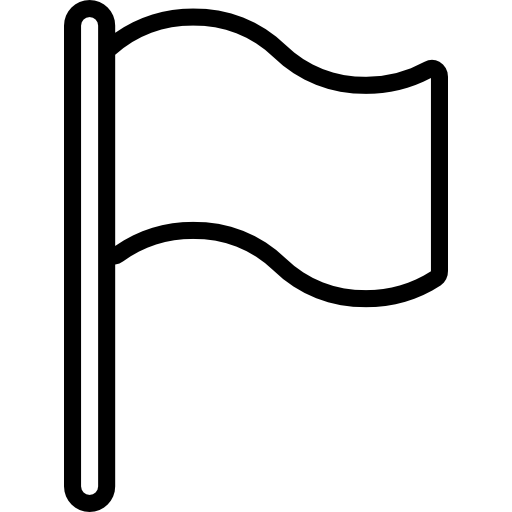
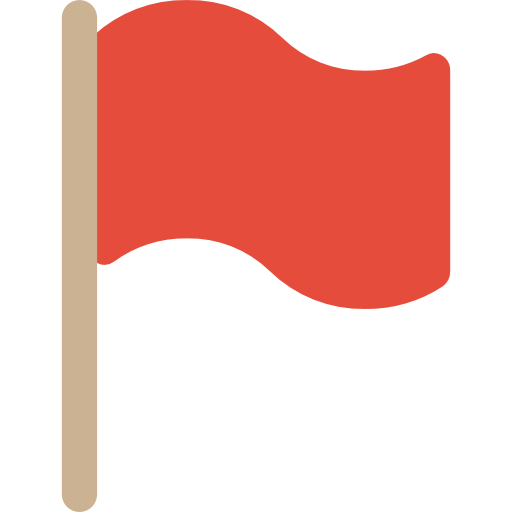
complete, delete, mark important functions added

diff --git a/src/app/main-view/main-view.component.ts b/src/app/main-view/main-view.component.ts
@@ -1,47 +1,20 @@
 import { Component, OnInit } from '@angular/core';
 import { Task, TaskList } from './taskList';
-import { TaskCompleteService } from '../../services/taskComplete.service';
 import { Subscription } from 'rxjs';
+import { TaskManagementService } from '../../services/TaskManagement.service';
 @Component({
   selector: 'app-main-view',
   templateUrl: './main-view.component.html',
   styleUrls: ['./main-view.component.scss'],
 })
 export class MainViewComponent implements OnInit {
-  subscription: Subscription;
-
-  constructor(private taskComplete: TaskCompleteService) {
-    this.subscription = this.taskComplete.clickEvent$.subscribe(
-      (taskItem: Task) => {
-        console.log(taskItem);
-        let taskId = taskItem.id;
-        let completeTask = () => {
-          for (const item of this.taskList) {
-            let foundTask = item.tasks.find((task) => task.id === taskId);
-            if (foundTask) {
-              let project = item
-              let taskIndex = 
-            }
-          }
-        };
-        completeTask();
-      }
-    );
-  }
-
-  ngOnInit() {}
-
-  ngOnDestroy() {
-    this.subscription.unsubscribe();
-  }
-
   taskList: TaskList[] = [
     {
       projectName: 'School',
       tasks: [
         { id: 1, taskName: 'Do homework', completed: false },
         { id: 2, taskName: 'Math exam', completed: false },
-        { id: 3, taskName: 'Return books', completed: false },
+        { id: 3, taskName: 'Return books', completed: false, important: true },
         { id: 4, taskName: 'Buy new notebook', completed: true },
         { id: 5, taskName: 'Help Susan with homework', completed: false },
         { id: 6, taskName: 'Talk to teacher', completed: false },
@@ -88,4 +61,84 @@ export class MainViewComponent implements OnInit {
       ],
     },
   ];
+
+  subscription: Subscription;
+
+  constructor(private taskManagementService: TaskManagementService) {
+    this.subscription =
+      this.taskManagementService.toggleTaskCompleted$.subscribe(
+        (taskItem: Task) => {
+          this.markTaskComplete(taskItem.id);
+        }
+      );
+    this.subscription =
+      this.taskManagementService.toggleTaskCompleted$.subscribe(
+        (taskItem: Task) => {
+          this.deleteTask(taskItem);
+        }
+      );
+    this.subscription =
+      this.taskManagementService.taskMarkedAsImportant$.subscribe(
+        (taskItem: Task) => {
+          this.toggleImportant(taskItem);
+        }
+      );
+  }
+
+  markTaskComplete(taskId: number) {
+    for (let i = 0; i < this.taskList.length; i++) {
+      const project = this.taskList[i];
+      const taskIndex = project.tasks.findIndex((item) => item.id === taskId);
+      if (taskIndex !== -1) {
+        let foundProjectIndex = i;
+        let foundTaskIndex = taskIndex;
+        this.taskList[foundProjectIndex].tasks[foundTaskIndex].completed =
+          !this.taskList[foundProjectIndex].tasks[foundTaskIndex].completed;
+      }
+    }
+  }
+
+  deleteTask(taskItem: Task) {
+    for (let i = 0; i < this.taskList.length; i++) {
+      const project = this.taskList[i];
+      const taskIndex = project.tasks.findIndex(
+        (item) => item.id === taskItem.id
+      );
+      if (taskIndex !== -1) {
+        let foundProjectIndex = i;
+        let foundTaskIndex = taskIndex;
+        this.taskList[foundProjectIndex].tasks.splice(foundTaskIndex, 1);
+      }
+    }
+  }
+
+  toggleImportant(taskItem: Task) {
+    for (let i = 0; i < this.taskList.length; i++) {
+      const project = this.taskList[i];
+      const taskIndex = project.tasks.findIndex(
+        (item) => item.id === taskItem.id
+      );
+      if (taskIndex !== -1) {
+        let foundProjectIndex = i;
+        let foundTaskIndex = taskIndex;
+        this.taskList[foundProjectIndex].tasks[foundTaskIndex].important =
+          !this.taskList[foundProjectIndex].tasks[foundTaskIndex].important;
+      }
+    }
+  }
+
+  projectToShow: TaskList = this.taskList[0];
+
+  showProject(projectName: string) {
+    let projectIndex = this.taskList.findIndex(
+      (item) => item.projectName === projectName
+    );
+    this.projectToShow = this.taskList[projectIndex];
+  }
+
+  ngOnInit() {}
+
+  ngOnDestroy() {
+    this.subscription.unsubscribe();
+  }
 }

diff --git a/src/app/main-task-view/main-task-view.component.ts b/src/app/main-task-view/main-task-view.component.ts
@@ -4,23 +4,30 @@ import { TaskList } from '../main-view/taskList';
 @Component({
   selector: 'app-main-task-view',
   templateUrl: './main-task-view.component.html',
-  styleUrls: ['./main-task-view.component.scss']
+  styleUrls: ['./main-task-view.component.scss'],
 })
 export class MainTaskViewComponent implements OnInit {
+  constructor() {}
 
-  constructor() { }
+  ngOnInit() {}
 
-  ngOnInit() {
-  }
-
-  @Input() project!: TaskList
+  @Input() project!: TaskList;
 
   activeTasks = () => {
-    return this.project.tasks.filter((item) => item.completed === false)
-  }
+    return this.project.tasks.filter((item) => item.completed === false);
+  };
 
   completedTasks = () => {
-    return this.project.tasks.filter((item) => item.completed === true)
-  }
+    return this.project.tasks.filter((item) => item.completed === true);
+  };
 
+  completedTasksVisible: Boolean = false;
+  showCompletedTasksBtn: string = 'Show completed tasks';
+
+  toggleCompletedTasksVisible() {
+    this.completedTasksVisible = !this.completedTasksVisible;
+    this.showCompletedTasksBtn = this.completedTasksVisible
+      ? 'Hide completed tasks'
+      : 'Show completed tasks';
+  }
 }

diff --git a/src/app/active-task-item/active-task-item.component.html b/src/app/active-task-item/active-task-item.component.html
@@ -1,9 +1,26 @@
-<div class="activeTaskItemWrapper">
-  <input type="checkbox" (click)="completeTask()"/>
-  <p>{{activeTaskItem.taskName}}</p>
+<div
+  class="activeTaskItemWrapper"
+  [ngClass]="{ importantTask: activeTaskItem.important }"
+>
+  <input
+    type="checkbox"
+    (click)="completeTask()"
+    [checked]="activeTaskItem.completed"
+  />
+  <p>{{ activeTaskItem.taskName }}</p>
   <div class="activeTaskItemButtonsWrapper">
-    <button type="button"><img src="../../assets/flag.png"></button>
-    <button type="button"><img src="../../assets/edit.png"></button>
-    <button type="button"><img src="../../assets/delete.png"></button>
+    <button type="button" (click)="markAsImportant()">
+      <img
+        [src]="
+          !activeTaskItem.important
+            ? '../../assets/flag.png'
+            : '../../assets/red-flag.png'
+        "
+      />
+    </button>
+    <button type="button"><img src="../../assets/edit.png" /></button>
+    <button type="button" (click)="deleteTask()">
+      <img src="../../assets/delete.png" />
+    </button>
   </div>
 </div>

diff --git a/src/app/active-task-item/active-task-item.component.ts b/src/app/active-task-item/active-task-item.component.ts
@@ -1,6 +1,6 @@
 import { Component, OnInit, Input } from '@angular/core';
 import { Task } from '../main-view/taskList';
-import { TaskCompleteService } from '../../services/taskComplete.service';
+import { TaskManagementService } from '../../services/TaskManagement.service';
 
 @Component({
   selector: 'app-active-task-item',
@@ -8,13 +8,21 @@ import { TaskCompleteService } from '../../services/taskComplete.service';
   styleUrls: ['./active-task-item.component.scss'],
 })
 export class ActiveTaskItemComponent implements OnInit {
-  constructor(private taskComplete: TaskCompleteService) {}
+  constructor(private taskManagementService: TaskManagementService) {}
 
   ngOnInit() {}
 
   @Input() activeTaskItem!: Task;
 
   completeTask() {
-    this.taskComplete.sendClickEvent(this.activeTaskItem);
+    this.taskManagementService.toggleCompleteTask(this.activeTaskItem);
+  }
+
+  deleteTask() {
+    this.taskManagementService.deleteTask(this.activeTaskItem);
+  }
+
+  markAsImportant() {
+    this.taskManagementService.toggleMarkedAsImportant(this.activeTaskItem)
   }
 }

diff --git a/src/services/TaskManagement.service.ts b/src/services/TaskManagement.service.ts
@@ -1,0 +1,30 @@
+import { Injectable } from '@angular/core';
+import { Subject } from 'rxjs';
+import { Task } from '../app/main-view/taskList';
+
+@Injectable({
+  providedIn: 'root',
+})
+export class TaskManagementService {
+  private toggleTaskCompleted = new Subject<any>();
+  private taskDeleted = new Subject<any>();
+  private taskMarkedAsImportant = new Subject<any>();
+
+  toggleTaskCompleted$ = this.toggleTaskCompleted.asObservable();
+  taskDeleted$ = this.taskDeleted.asObservable();
+  taskMarkedAsImportant$ = this.taskMarkedAsImportant.asObservable();
+
+  toggleCompleteTask(taskItem: Task) {
+    this.toggleTaskCompleted.next(taskItem);
+  }
+
+  deleteTask(taskItem: Task) {
+    this.taskDeleted.next(taskItem);
+  }
+
+  toggleMarkedAsImportant(taskItem: Task) {
+    this.taskMarkedAsImportant.next(taskItem);
+  }
+
+  constructor() {}
+}

diff --git a/src/app/completed-task-item/completed-task-item.component.ts b/src/app/completed-task-item/completed-task-item.component.ts
@@ -1,18 +1,25 @@
 import { Component, OnInit, Input } from '@angular/core';
 import { Task } from '../main-view/taskList';
+import { TaskManagementService } from '../../services/TaskManagement.service';
 
 @Component({
   selector: 'app-completed-task-item',
   templateUrl: './completed-task-item.component.html',
-  styleUrls: ['./completed-task-item.component.scss']
+  styleUrls: ['./completed-task-item.component.scss'],
 })
 export class CompletedTaskItemComponent implements OnInit {
+  constructor(private taskManagementService: TaskManagementService
+  ) {}
 
-  constructor() { }
+  ngOnInit() {}
 
-  ngOnInit() {
+  @Input() task!: Task;
+
+  completeTask() {
+    this.taskManagementService.toggleCompleteTask(this.task);
   }
 
-  @Input() task!: Task
-
+  deleteTaskItem() {
+    this.taskManagementService.deleteTask(this.task);
+  }
 }

diff --git a/src/app/side-bar/side-bar.component.ts b/src/app/side-bar/side-bar.component.ts
@@ -1,19 +1,20 @@
-import { Component, Input, OnInit } from '@angular/core';
+import { Component, EventEmitter, Input, OnInit, Output } from '@angular/core';
 import { TaskList } from '../main-view/taskList';
 
 @Component({
   selector: 'app-side-bar',
   templateUrl: './side-bar.component.html',
-  styleUrls: ['./side-bar.component.scss']
+  styleUrls: ['./side-bar.component.scss'],
 })
 export class SideBarComponent implements OnInit {
+  constructor() {}
 
-  constructor() { }
+  ngOnInit() {}
 
-  ngOnInit() {
-    
+  @Input() projects!: TaskList[];
+
+  @Output() showProjectEvent = new EventEmitter<string>();
+  showProject(item: string) {
+    this.showProjectEvent.emit(item);
   }
-
-  @Input() projects!: TaskList[] 
-  
 }

diff --git a/src/app/main-task-view/main-task-view.component.html b/src/app/main-task-view/main-task-view.component.html
@@ -1,5 +1,5 @@
 <h1 class="mainTaskViewHeading">{{project.projectName}}</h1>
 <app-add-new-task></app-add-new-task>
 <app-active-task-list [tasks] = 'activeTasks()' ></app-active-task-list>
-<button class="mainTaskViewShowCompletedBtn">Hide completed tasks</button>
-<app-completed-task-list [tasks] = 'completedTasks()'></app-completed-task-list>
+<button class="mainTaskViewShowCompletedBtn" (click)="toggleCompletedTasksVisible()">{{showCompletedTasksBtn}}</button>
+<app-completed-task-list [tasks] = 'completedTasks()' *ngIf="completedTasksVisible"></app-completed-task-list>

diff --git a/src/app/completed-task-item/completed-task-item.component.html b/src/app/completed-task-item/completed-task-item.component.html
@@ -1,9 +1,7 @@
 <div class="completedTaskItemWrapper">
-  <input type="checkbox" />
+  <input type="checkbox" [checked]="task.completed" (click)="completeTask()"/>
   <p>{{task.taskName}}</p>
   <div class="completedTaskItemButtonsWrapper">
-    <button type="button"><img src="../../assets/flag.png"></button>
-    <button type="button"><img src="../../assets/edit.png"></button>
-    <button type="button"><img src="../../assets/delete.png"></button>
+    <button type="button" (click)="deleteTaskItem()"><img src="../../assets/delete.png" ></button>
   </div>
 </div>

diff --git a/src/services/TaskManagement.service.spec.ts b/src/services/TaskManagement.service.spec.ts
@@ -1,0 +1,16 @@
+/* tslint:disable:no-unused-variable */
+
+import { TestBed, async, inject } from '@angular/core/testing';
+import { TaskManagementService } from './TaskManagement.service';
+
+describe('Service: TaskManagement', () => {
+  beforeEach(() => {
+    TestBed.configureTestingModule({
+      providers: [TaskManagementService]
+    });
+  });
+
+  it('should ...', inject([TaskManagementService], (service: TaskManagementService) => {
+    expect(service).toBeTruthy();
+  }));
+});

diff --git a/src/app/active-task-item/active-task-item.component.scss b/src/app/active-task-item/active-task-item.component.scss
@@ -7,9 +7,6 @@
   align-items: center;
   justify-content: space-between;
   box-shadow: 0px 0px 4px 3px rgba(0, 0, 0, 0.20);
-  &:focus-within {
-    box-shadow: 0px 10px 15px -3px rgba(0, 0, 0, 0.1);
-  }
 
   input {
     margin-left: 10px;
@@ -46,4 +43,8 @@
       }
     }
   }
+}
+
+.importantTask {
+  background-color: rgba(247, 225, 232, 0.831);
 }

diff --git a/src/app/side-bar/side-bar.component.html b/src/app/side-bar/side-bar.component.html
@@ -1,7 +1,7 @@
 <div class="sideBarWrapper">
   <h1>Projects</h1>
   <div class="sideBarProjectsWrapper">
-    <a *ngFor="let item of projects; let i">{{ item.projectName }}</a>
+    <a *ngFor="let item of projects" (click)="showProject(item.projectName)">{{ item.projectName }}</a>
     <!-- <a>Work</a>
     <a>Home</a>
     <a>Gardening</a>
